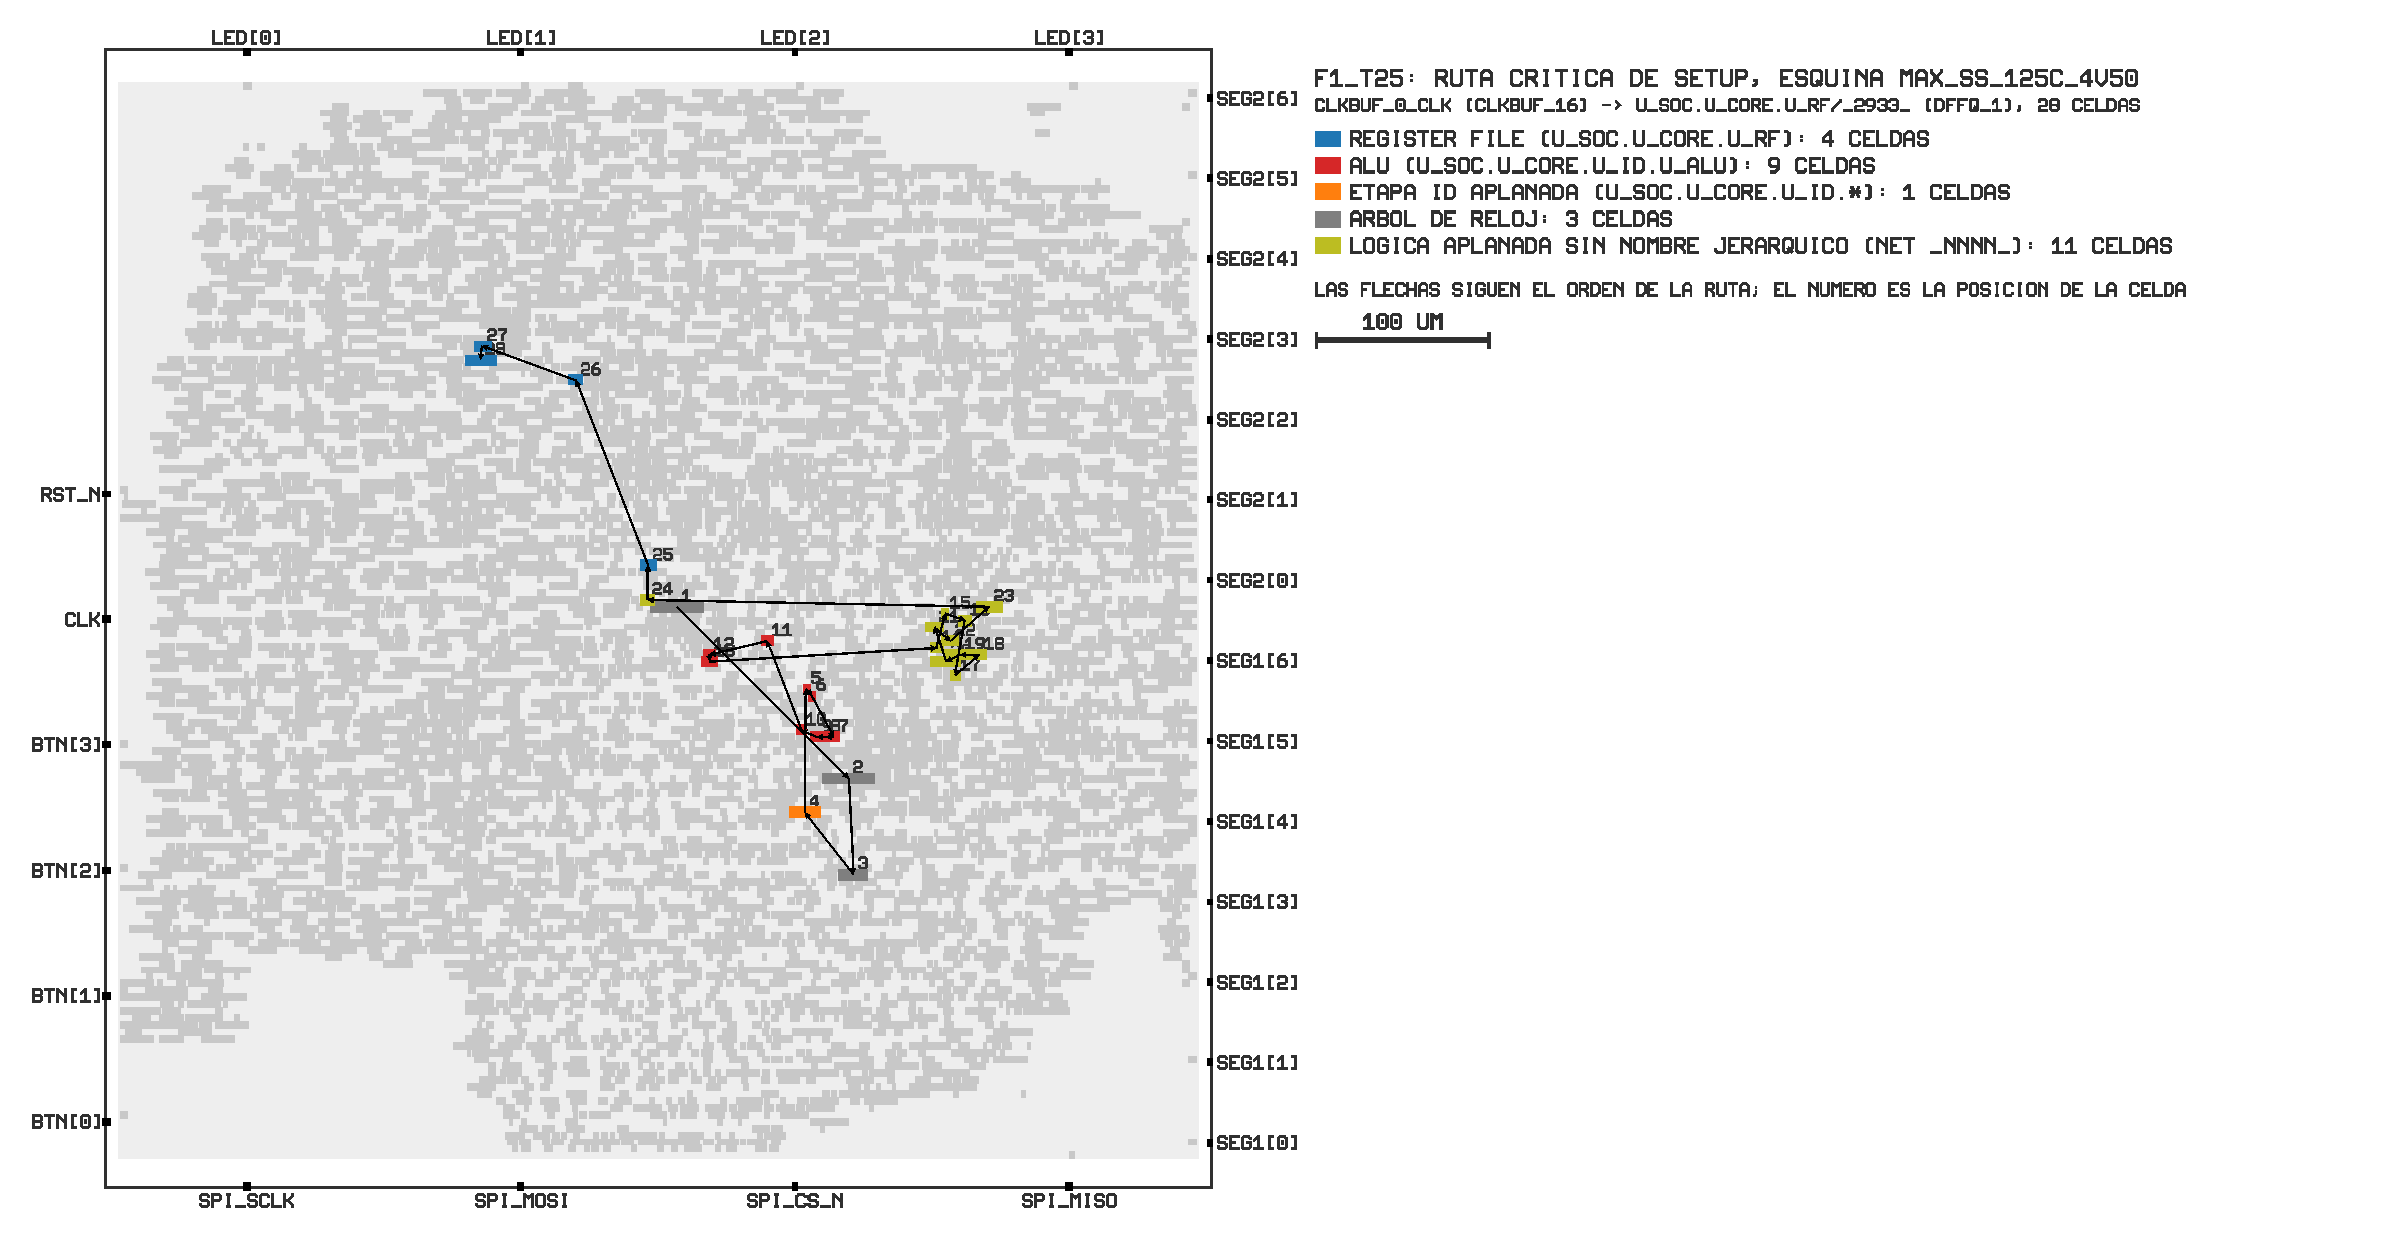
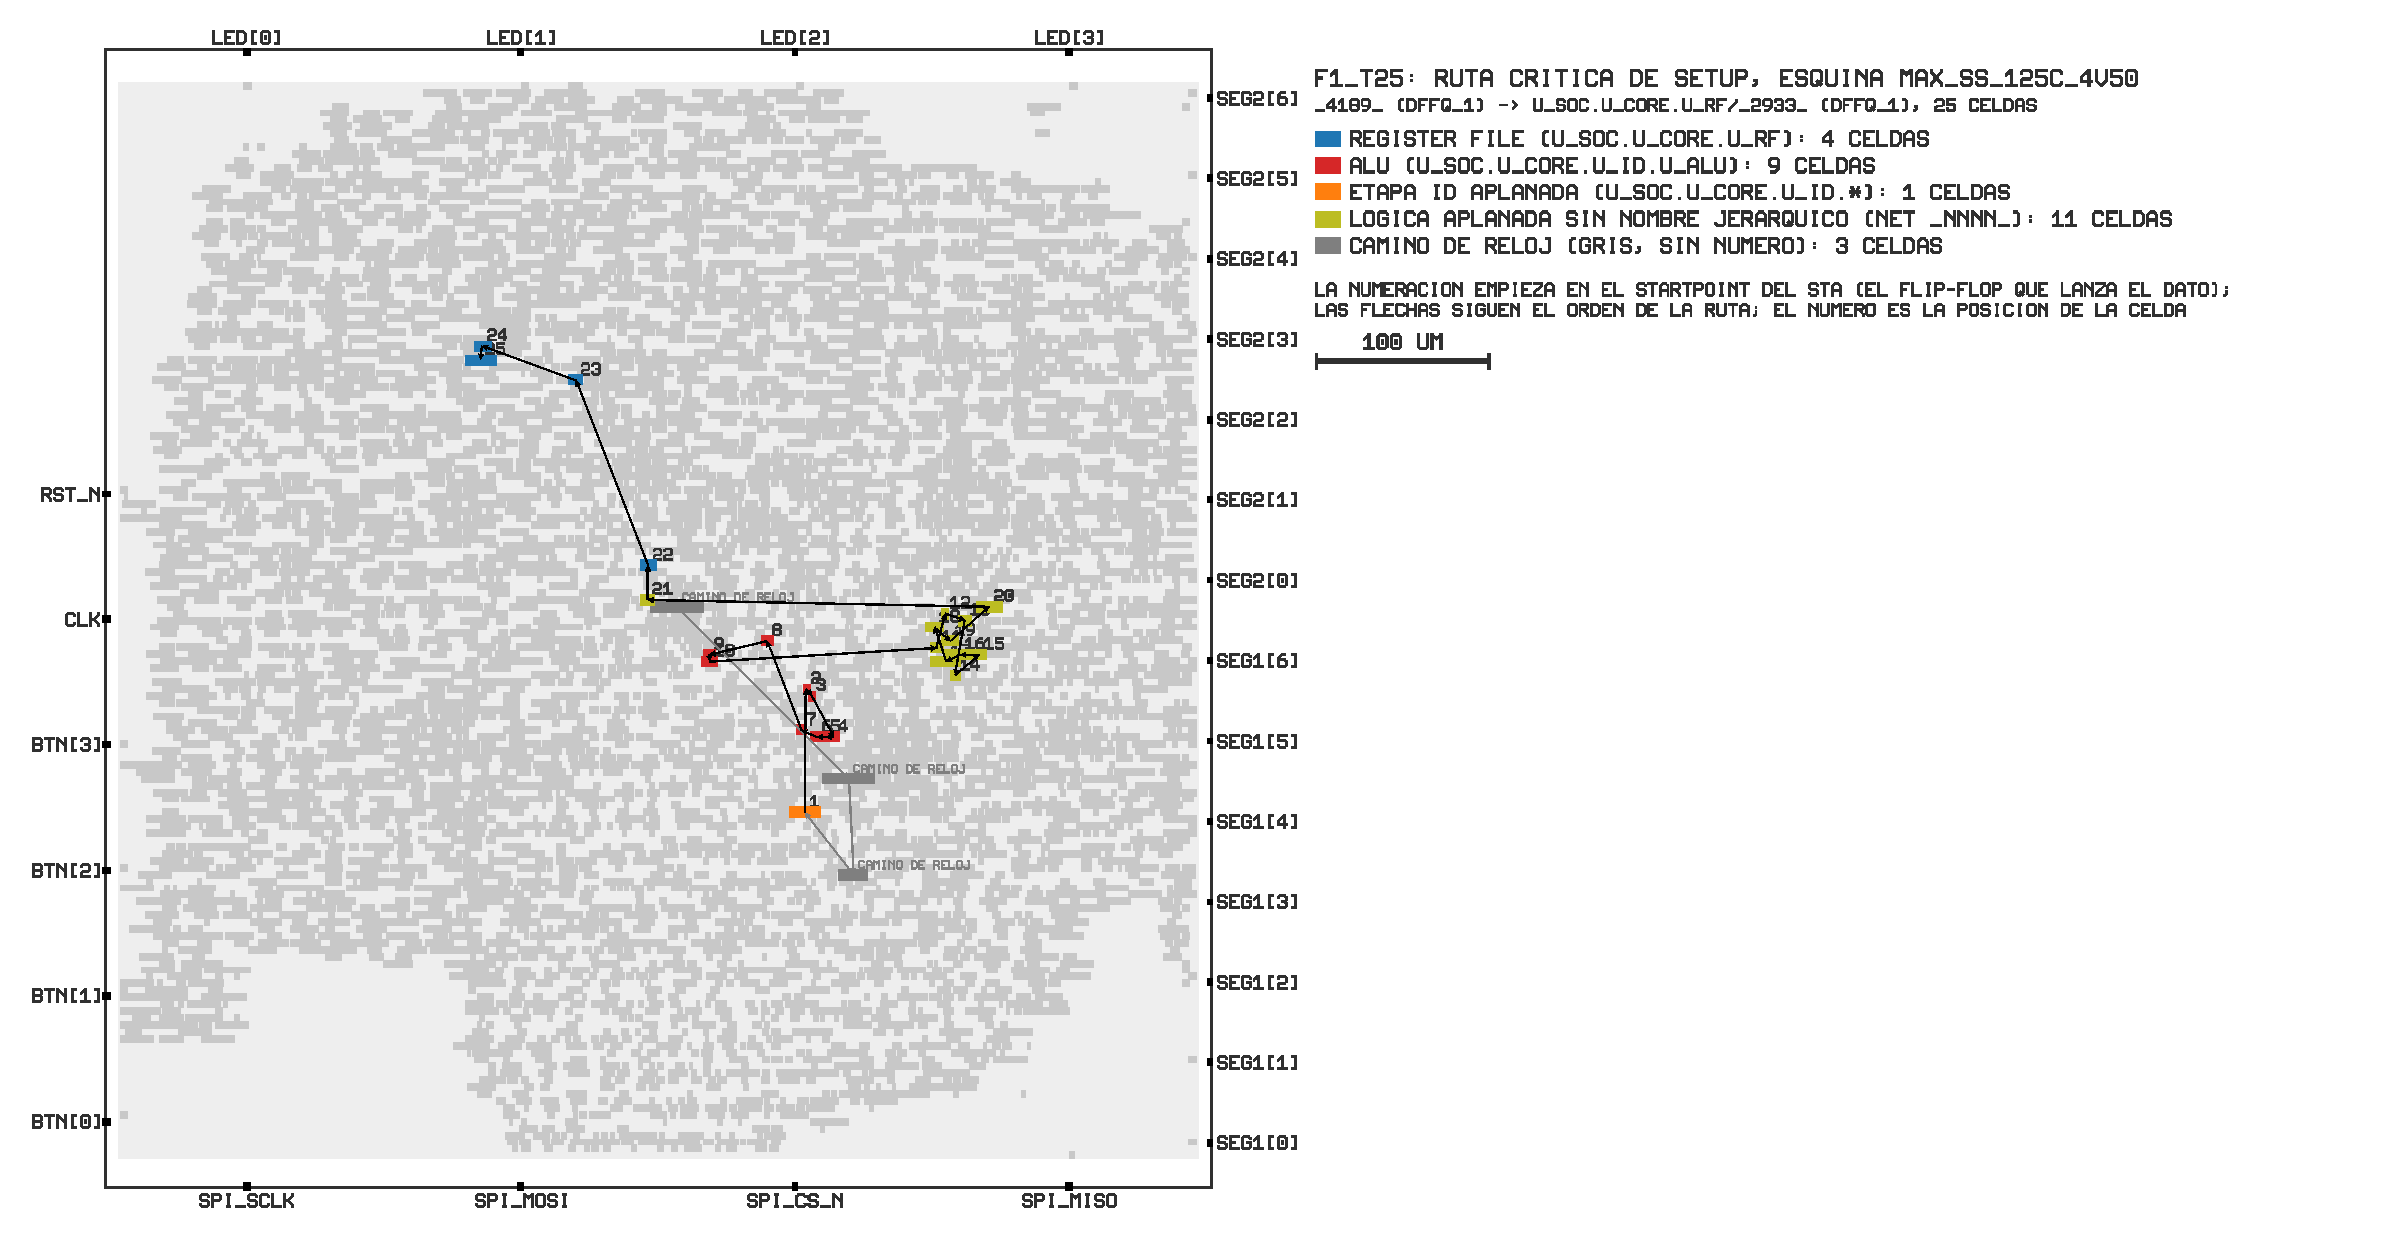
Layout: la ruta crítica se numera desde el startpoint del STA; camino de reloj en gris

diff --git a/asic/layout/anotar.py b/asic/layout/anotar.py
@@ -23,7 +23,9 @@ asic/<config>/resultados/<tag>/layout/):
                     para repetir las marcas en la interfaz (docs/layout.md).
   ruta_critica.png  celdas de la ruta crítica de setup de la esquina `corner`
                     (primera ruta de <run>/*-openroad-stapostpnr/<corner>/max.rpt),
-                    numeradas en orden y unidas con flechas, coloreadas por
+                    numeradas en orden desde el startpoint del STA (el flip-flop
+                    que lanza el dato; los buffers del camino de reloj van en
+                    gris, sin número) y unidas con flechas, coloreadas por
                     módulo según el nombre jerárquico de su net de salida.
   ruta_critica.txt  la lista de celdas de la ruta con su módulo.
   slew.png          pines con violación de max slew en la esquina `corner`
@@ -365,28 +367,33 @@ def figura_bloques(layout, deff):
 
 
 def leer_ruta(run, corner):
-    """Celdas de la primera ruta de max.rpt: [(instancia, celda, pin_salida, net)]."""
+    """Celdas de la primera ruta de max.rpt: [(instancia, celda, pin_salida, net)], la
+    ruta del reporte, y el startpoint y el endpoint del STA (líneas "Startpoint:" y
+    "Endpoint:"). La lista incluye el camino de reloj (los buffers del árbol que
+    llegan al startpoint), que el reporte lista antes del flip-flop de inicio."""
     sta = sorted(d for d in os.listdir(run) if d.endswith("openroad-stapostpnr"))
     if not sta:
         raise SystemExit("no hay paso openroad-stapostpnr en la corrida")
     path = os.path.join(run, sta[-1], corner, "max.rpt")
     celdas = []
     en_ruta = False
-    ultimo = None
+    inicio = fin = None
     with open(path) as f:
         for linea in f:
             if linea.startswith("Startpoint:"):
                 if celdas:
                     break
                 en_ruta = True
+                inicio = linea.split()[1]
             if not en_ruta:
                 continue
+            if linea.startswith("Endpoint:"):
+                fin = linea.split()[1]
             if "data arrival time" in linea:
                 break
             m = re.search(r"[\^v] (\S+)/(\S+) \((\S+)\)", linea)
             if m:
                 inst, pin, celda = m.group(1), m.group(2), m.group(3)
-                ultimo = (inst, celda, pin)
                 if not celdas or celdas[-1][0] != inst:
                     celdas.append([inst, celda, pin, None])
                 else:
@@ -395,7 +402,7 @@ def leer_ruta(run, corner):
             m = re.search(r"^\s+(\S+) \(net\)", linea)
             if m and celdas:
                 celdas[-1][3] = m.group(1)
-    return celdas, path
+    return celdas, path, inicio, fin
 
 
 def modulo_de(inst, net):
@@ -428,25 +435,45 @@ MODULOS_RUTA = {
     "lsu": ("LSU / bus de datos (u_soc.u_core.lsu_*, data_*)", 0x9467bd),
     "if": ("etapa IF (u_soc.u_core.u_if.*)", 0x8c564b),
     "soc": ("perifericos y memoria (u_soc.*)", 0x17becf),
-    "clk": ("arbol de reloj", 0x7f7f7f),
+    "clk": ("camino de reloj", 0x7f7f7f),
     "otro": ("logica aplanada sin nombre jerarquico (net _nnnn_)", 0xbcbd22),
 }
 
 
 def figura_ruta(layout, deff):
+    """Ruta crítica de setup sobre el layout. La numeración y el subtítulo empiezan en
+    el startpoint del STA (el flip-flop que lanza el dato); las celdas del camino de
+    reloj que el reporte lista antes se dibujan en gris, con la etiqueta "camino de
+    reloj" y sin número."""
     die, pines = leer_def_texto(deff)
     insts = instancias(layout)
     pos = {n: b for n, c, b in insts}
-    ruta, path = leer_ruta(RUN, CORNER)
+    ruta, path, inicio, fin = leer_ruta(RUN, CORNER)
+    idx = next((i for i, r in enumerate(ruta) if r[0] == inicio), None)
+    if idx is None:
+        print(f"aviso: el startpoint {inicio} no está entre las celdas de la ruta; se numera desde la primera")
+        idx = 0
+    reloj, datos = ruta[:idx], ruta[idx:]
     lz = Lienzo(layout.dbu)
     base_con_celdas(lz, insts, die)
     c_txt = lz.capa(GRIS_TEXTO)
     capas_mod = {k: lz.capa(v[1]) for k, v in MODULOS_RUTA.items()}
     c_flecha = lz.capa(0x000000)
+    c_reloj = capas_mod["clk"]
     usados = {}
+    puntos_reloj = []
     puntos = []
     lineas_txt = []
-    for i, (inst, celda, pin, net) in enumerate(ruta, 1):
+    for inst, celda, pin, net in reloj:
+        box = pos.get(inst)
+        if box is None:
+            print(f"aviso: {inst} no está en el DEF")
+            continue
+        lz.caja(c_reloj, box.enlarged(1.0, 1.0))
+        puntos_reloj.append((box.center().x, box.center().y))
+        lz.texto(c_reloj, "camino de reloj", box.center().x + 3, box.center().y + 3, 5.0)
+        lineas_txt.append(f"-- {inst} ({celda.replace(SCL + '__', '')}) -> {net}  [camino de reloj]")
+    for i, (inst, celda, pin, net) in enumerate(datos, 1):
         box = pos.get(inst)
         if box is None:
             print(f"aviso: {inst} no está en el DEF")
@@ -456,6 +483,8 @@ def figura_ruta(layout, deff):
         lz.caja(capas_mod[mod], box.enlarged(1.0, 1.0))
         puntos.append((box.center().x, box.center().y))
         lineas_txt.append(f"{i:2d} {inst} ({celda.replace(SCL + '__', '')}) -> {net}  [{MODULOS_RUTA[mod][0]}]")
+    for a, b in zip(puntos_reloj, puntos_reloj[1:] + puntos[:1]):
+        lz.flecha(c_reloj, a, b, 0.8)
     for a, b in zip(puntos, puntos[1:]):
         lz.flecha(c_flecha, a, b, 0.8)
     for i, (x, y) in enumerate(puntos, 1):
@@ -465,7 +494,8 @@ def figura_ruta(layout, deff):
     y = die.top - 20
     lz.texto(c_txt, f"{TAG}: ruta critica de setup, esquina {CORNER}", x_leg, y, alto + 1)
     y -= 1.6 * alto
-    lz.texto(c_txt, f"{ruta[0][0]} ({ruta[0][1].replace(SCL + '__', '')}) -> {ruta[-1][0]} ({ruta[-1][1].replace(SCL + '__', '')}), {len(ruta)} celdas", x_leg, y, alto * 0.85)
+    subtitulo = f"{datos[0][0]} ({datos[0][1].replace(SCL + '__', '')}) -> {datos[-1][0]} ({datos[-1][1].replace(SCL + '__', '')}), {len(datos)} celdas"
+    lz.texto(c_txt, subtitulo, x_leg, y, alto * 0.85)
     y -= 2.2 * alto
     for k, (etiqueta, color) in MODULOS_RUTA.items():
         if k not in usados:
@@ -473,7 +503,13 @@ def figura_ruta(layout, deff):
         lz.caja(capas_mod[k], pya.DBox(x_leg, y, x_leg + 14, y + alto))
         lz.texto(c_txt, f"{etiqueta}: {usados[k]} celdas", x_leg + 20, y, alto)
         y -= 1.7 * alto
+    if reloj:
+        lz.caja(c_reloj, pya.DBox(x_leg, y, x_leg + 14, y + alto))
+        lz.texto(c_txt, f"camino de reloj (gris, sin numero): {len(reloj)} celdas", x_leg + 20, y, alto)
+        y -= 1.7 * alto
     y -= alto
+    lz.texto(c_txt, "la numeracion empieza en el startpoint del STA (el flip-flop que lanza el dato);", x_leg, y, alto * 0.85)
+    y -= 1.3 * alto
     lz.texto(c_txt, "las flechas siguen el orden de la ruta; el numero es la posicion de la celda", x_leg, y, alto * 0.85)
     y -= 3 * alto
     barra_escala(lz, c_txt, die, x_leg, y)
@@ -482,7 +518,10 @@ def figura_ruta(layout, deff):
     lz.guardar(os.path.join(OUT, "ruta_critica.png"), caja, ANCHO_PX)
     with open(os.path.join(OUT, "ruta_critica.txt"), "w") as f:
         f.write(f"ruta critica de {path}\n")
+        f.write(f"startpoint {inicio}, endpoint {fin}: {len(datos)} celdas numeradas; "
+                f"{len(reloj)} celdas del camino de reloj (--, sin numero)\n")
         f.write("\n".join(lineas_txt) + "\n")
+    print(subtitulo)
     print("\n".join(lineas_txt))
 
 
